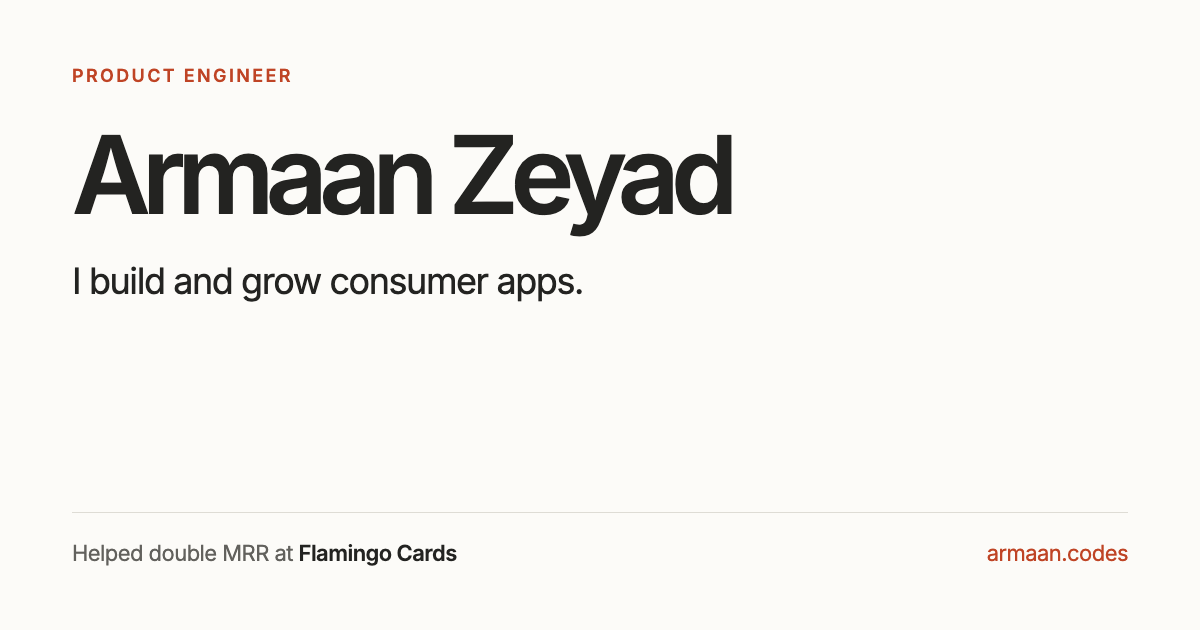
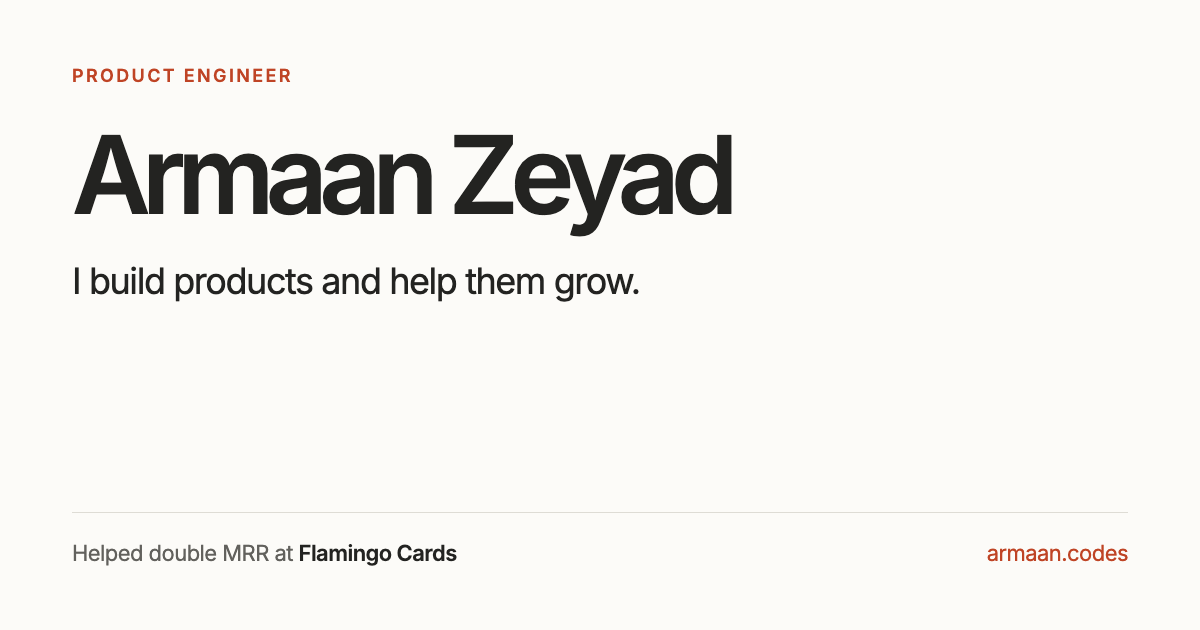
Broaden portfolio headline beyond consumer apps

Changed region(s): [[0.1233, 0.4222, 0.5242, 0.4825]]

diff --git a/src/app/layout.tsx b/src/app/layout.tsx
@@ -5,7 +5,7 @@ import "./globals.css";
 
 const inter = localFont({ src: "./fonts/inter-latin.woff2", display: "swap", weight: "100 900", variable: "--inter" });
 const title = "Armaan Zeyad — Product Engineer";
-const description = "I build and grow consumer apps. Selected work in mobile engineering, subscription experiments, and AI.";
+const description = "I build products and help them grow. Selected work in mobile engineering, subscription experiments, and AI.";
 
 export const metadata: Metadata = {
   metadataBase: new URL(process.env.VERCEL_PROJECT_PRODUCTION_URL ? `https://${process.env.VERCEL_PROJECT_PRODUCTION_URL}` : "https://armaan.codes"),

diff --git a/src/app/components/Hero.tsx b/src/app/components/Hero.tsx
@@ -9,7 +9,7 @@ export default function Hero({ email, github }: { email: string; github: string 
         <p className={styles.availability}><span aria-hidden="true" />Based in India · Open to remote roles &amp; relocation</p>
       </div>
       <h1 id="hero-title">Armaan Zeyad</h1>
-      <p className={styles.lead}>I build and grow consumer apps.</p>
+      <p className={styles.lead}>I build products and help them grow.</p>
       <p className={styles.proof}>At Flamingo Cards, I helped double monthly recurring revenue in seven months.</p>
       <div className={styles.bottomline}>
         <div className={styles.actions}>
